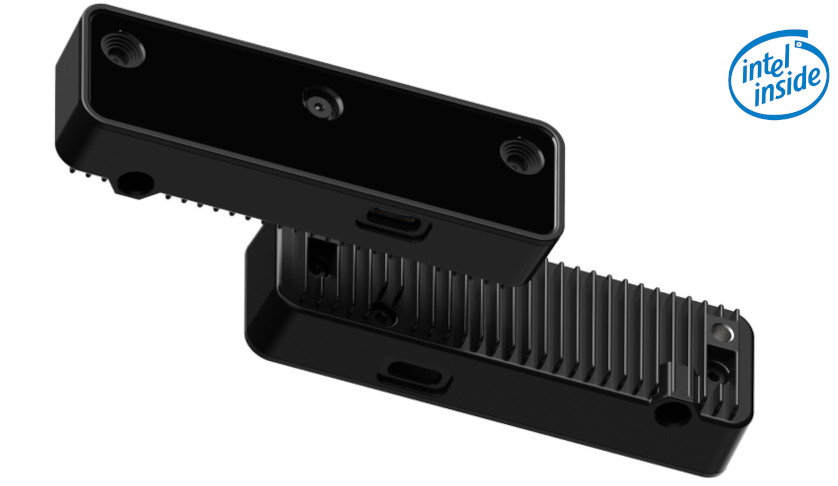
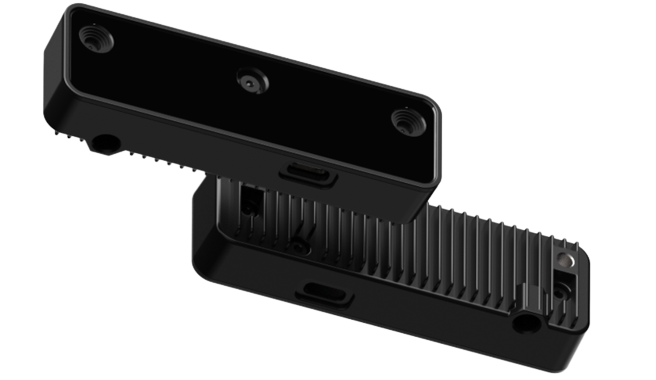
Updated front imgs

diff --git a/docs/source/pages/DM9098s2.rst b/docs/source/pages/DM9098s2.rst
@@ -8,7 +8,7 @@ OAK-D S2
 
 (`shop <https://shop.luxonis.com/collections/beta-store/products/oak-d-s2>`__) - :raw-html:`<font color="red"><b>Currently in Beta stage</b></font>`
 
-.. image:: /_static/images/DM9098/oak-d-s2.jpg
+.. image:: /_static/images/DM9098/oak-d-s2.png
 
 Overview
 ********

diff --git a/docs/source/pages/BW1094.rst b/docs/source/pages/BW1094.rst
@@ -3,7 +3,7 @@
 DepthAI RPi HAT Baseboard
 =========================
 
-.. image:: /_static/images/BW1094/BW1094_R0M0E0_front.jpg
+.. image:: /_static/images/BW1094/BW1094_R0M0E0_front.png
 
 Overview
 ********

diff --git a/docs/source/pages/BW1098FFC.rst b/docs/source/pages/BW1098FFC.rst
@@ -3,7 +3,7 @@
 OAK-FFC-3P-OG
 =============
 
-.. image:: /_static/images/BW1098FFC/BW1098FFC_front.jpg
+.. image:: /_static/images/BW1098FFC/BW1098FFC_front.png
 
 Overview
 ********

diff --git a/docs/source/pages/DM1090.rst b/docs/source/pages/DM1090.rst
@@ -3,7 +3,7 @@
 OAK-FFC-3P
 ==========
 
-.. image:: /_static/images/DM1090FFC/DM1090FFC_up.jpg
+.. image:: /_static/images/DM1090FFC/DM1090FFC_up.png
 
 Overview
 ********

diff --git a/docs/source/pages/BW2098POE.rst b/docs/source/pages/BW2098POE.rst
@@ -3,7 +3,7 @@
 PoE Board
 =========
 
-.. image:: /_static/images/BW2098POE/BW2098POE_up.jpg
+.. image:: /_static/images/BW2098POE/BW2098POE_up.png
 
 Overview
 ********

diff --git a/docs/source/pages/DM1098OBC.rst b/docs/source/pages/DM1098OBC.rst
@@ -3,7 +3,7 @@
 OAK-D-IOT-75
 ============
 
-.. image:: /_static/images/DM1098OBC/IOT-75.JPG
+.. image:: /_static/images/DM1098OBC/IOT-75.png
 
 Overview
 ********

diff --git a/docs/source/pages/SJ2096POE.rst b/docs/source/pages/SJ2096POE.rst
@@ -3,7 +3,7 @@
 OAK-1-PoE
 =========
 
-.. image:: /_static/images/SJ2096POE/SJ2096POE.jpg
+.. image:: /_static/images/SJ2096POE/SJ2096POE.png
 
 Overview
 ********

diff --git a/docs/source/pages/BW1097.rst b/docs/source/pages/BW1097.rst
@@ -3,7 +3,7 @@
 OAK-D-CM3
 =========
 
-.. image:: /_static/images/BW1097/BW1097_sq.jpg
+.. image:: /_static/images/BW1097/BW1097-front.png
 
 Overview
 ********

diff --git a/docs/source/pages/DM1092.rst b/docs/source/pages/DM1092.rst
@@ -3,7 +3,7 @@
 OAK-D-IOT-40
 ============
 
-.. image:: /_static/images/DM1092/DM1092.jpg
+.. image:: /_static/images/DM1092/DM1092.png
 
 Overview
 ********

diff --git a/docs/source/pages/DM1097.rst b/docs/source/pages/DM1097.rst
@@ -3,7 +3,7 @@
 OAK-D-CM4
 =========
 
-.. image:: /_static/images/DM1097/DM1097_up.jpg
+.. image:: /_static/images/DM1097/DM1097_up.png
 
 Overview
 ********

diff --git a/docs/source/pages/BW1098OAK.rst b/docs/source/pages/BW1098OAK.rst
@@ -3,7 +3,7 @@
 OAK-D
 =====
 
-.. image:: /_static/images/BW1098OAK/BW1098oak.jpg
+.. image:: /_static/images/BW1098OAK/BW1098oak.png
 
 Overview
 ********

diff --git a/docs/source/pages/BW2099.rst b/docs/source/pages/BW2099.rst
@@ -3,7 +3,7 @@
 OAK-SoM-Pro
 ===========
 
-.. image:: /_static/images/BW2099/BW2099.jpg
+.. image:: /_static/images/BW2099/BW2099.png
 
 Overview
 ********
